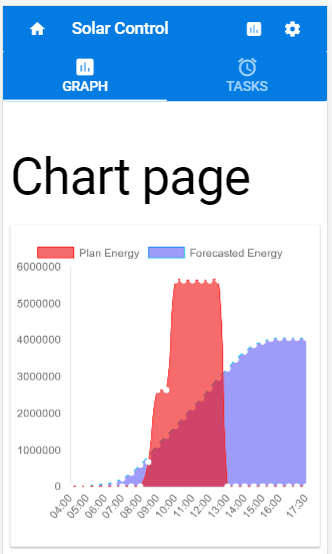
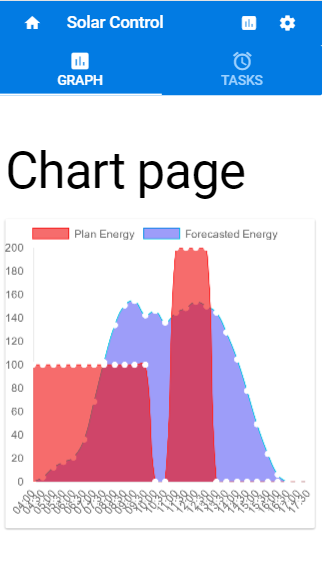
show battery graph and detect possible power shortages with current plan

diff --git a/src/modules/energy.js b/src/modules/energy.js
@@ -44,27 +44,32 @@ class Dataset {
 
 export default {
   getters: {
+    powerShortages (state, getters, rootState, rootGetters) {
+      let timeline = getters.batteryForecast.timeline
+      let l = timeline.length
+      let powerShortages = []
+      for (let i = 0; i < l; i++) {
+        if (getters.batteryForecast.values[i] === 0) {
+          powerShortages.push({ from: timeline[i - 1], to: timeline[i] })
+        }
+      }
+      return powerShortages
+    },
     batteryForecast (state, getters, rootState, rootGetters) {
-      let { batteryCapacity, batteryLevel, batteryLevelTime } = rootGetters.getConfig.panels
-      const timeline = [...new Set(getters.powerPlan.timeline.concat(getters.powerForecast.timeline))].sort()
+      let { batteryCapacity, batteryLevel } = rootGetters.getConfig.panels
+      const timeline = [...new Set(rootGetters.powerPlan.timeline.concat(rootGetters.powerForecast.timeline))].sort()
 
       const l = timeline.length
-      let powerShortages = []
       batteryLevel = [batteryLevel]
 
       for (let i = 1; i < l; i++) {
-        if (timeline[i] < batteryLevelTime) {
-          batteryLevel.push(batteryLevel[i - 1])
-          continue
-        }
         let energyTransfer = rootGetters.powerForecast.getValueAt(timeline[i - 1]) -
                              rootGetters.powerPlan.getValueIn(timeline[i - 1])
-        let temp = batteryLevel[i] + energyTransfer * (timeline[i] - timeline[i - 1]) / 1000
+        let temp = batteryLevel[i - 1] + energyTransfer * (timeline[i] - timeline[i - 1]) / 1000
         if (temp > batteryCapacity) {
           temp = batteryCapacity
         }
         if (temp < 0) {
-          powerShortages.push({from: timeline[i - 1], to: timeline[i], energy: batteryLevel[i]})
           temp = 0
         }
         batteryLevel.push(temp)

diff --git a/src/components/ChartPage.vue b/src/components/ChartPage.vue
@@ -4,6 +4,23 @@
       <div class="card">
         <vue-chart ref="chart" :chart-data="chart" :options="{responsive: true, maintainAspectRatio: false}"/>
       </div>
+
+      <div class="card">
+        <vue-chart ref="chart2" :chart-data="chart2" :options="{responsive: true, maintainAspectRatio: false}"/>
+      </div>
+
+        <p class="caption">Warning !</p>
+
+      <div class="card" v-for="shortage in powerShortages">
+        <div class="list">
+            <div class="item">
+              <div class="item-content">
+                  A power shortage is expected from {{ shortage.from|formatDate }} to {{ shortage.to|formatDate }}
+              </div>
+            </div>
+            <hr>
+        </div>
+      </div>
     </div>
 </template>
 
@@ -12,6 +29,11 @@ import chart from './Chart'
 import moment from 'moment'
 
 export default {
+  filters: {
+    formatDate (x) {
+      return moment(x).format('MM/DD HH:mm')
+    }
+  },
   components: {
     'vue-chart': chart
   },
@@ -22,6 +44,26 @@ export default {
     }
   },
   computed: {
+    powerShortages () {
+      return this.$store.getters.powerShortages
+    },
+    chart2 () {
+      let batteryForecast = this.$store.getters.batteryForecast
+      return {
+        labels: batteryForecast.timeline.map(now => moment(now).format('HH:mm')),
+        datasets: [
+          {
+            label: 'Battery Level',
+            borderColor: '#FC2525',
+            pointBackgroundColor: 'white',
+            borderWidth: 1,
+            pointBorderColor: 'white',
+            backgroundColor: 'rgba(10, 240, 240, 0.6)',
+            data: batteryForecast.values
+          }
+        ]
+      }
+    },
     chart () {
       let energyForecast = this.$store.getters.powerForecast
       let energyPlan = this.$store.getters.powerPlan

diff --git a/src/store.js b/src/store.js
@@ -169,6 +169,7 @@ export const store = new Vuex.Store({
       if (state.offlineMode) {
         commit('forecastData', offlineForecast)
         commit('pingBatteryLevel')
+        return
       }
       axios.get(
         'https://api.solcast.com.au/radiation/forecasts?' +

diff --git a/src/components/Tasks.vue b/src/components/Tasks.vue
@@ -53,11 +53,6 @@
 <script>
   import moment from 'moment'
   export default {
-    filters: {
-      formatDate (x) {
-        return moment(x).format('MM/DD HH:mm')
-      }
-    },
     data () {
       return {
         minDateTime: '',

diff --git a/README.md b/README.md
@@ -17,6 +17,7 @@
 
 ### vizualise the enregy evolution and check for power shortage warning
 ![Graph](docs/img/graph.png)
+![Graph](docs/img/battery.png)
 
 ## Build Setup
 
